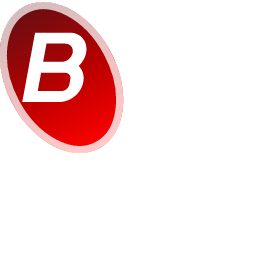
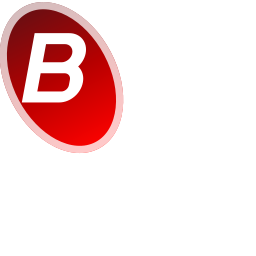
The buttons' letters placed where the map's are, and their settings read again (#56)
The map's letters do not sit alike on every icon: on the message icons'
sheet, X's and Y's are about 1.7 texels lower on their ovals than the
redraws put them. tools/button_assets.py layout now moves each icon's
letter (and Y's shadow, given the id "shadow") to where it best matches
the map's, and buttons.json keeps the move; the menus' large buttons move
by under 0.03 texels, the message icons' by up to 1.7. The PNGs are drawn
again, the sheet with all 256 levels of alpha rather than 32.

hud_hires_sprites_drawable read display.high_res_hud and high_res_text
only once, and hud_hires_sprite_bitmap kept its answer for the bitmap's
address, so turning either setting off or on left the message icons as
they were: both check again when the settings change, as
hud_hires_override_find does. ui_widget.c declares hud_hires_sprite_bitmap
with the port's other functions instead of in the block that calls it.
AUTHORS.md credits saulob for the redraws.

Checked with button_assets.py check against ui.map and side by side with
the map's icons; ninja linux and ninja android build, and the harness and
test_linux_port pass.

diff --git a/tools/button_assets.py b/tools/button_assets.py
@@ -37,7 +37,11 @@ layout: reads each icon's bitmap from the map (its size, format and the CRC
     place) and places its redraw on it: a small icon's scaled and moved as
     the map's small art is from its large art (so that their shapes' area
     and centre are the same), and a message icon's stencil where it covers
-    the sprite's best. Writes port/assets/buttons/buttons.json.
+    the sprite's best. Then each icon's letter (id "letter", with Y's
+    shadow, id "shadow") is moved on its oval to where the map's letter is
+    on that icon: the map's letters do not sit alike on every icon, so one
+    redraw's letter does not fit them all. Writes
+    port/assets/buttons/buttons.json.
 build: renders the redraws as buttons.json places them into
     port/assets/buttons/*.png (committed; the builds embed them:
     tools/embed_assets.py).
@@ -49,7 +53,6 @@ Needs rsvg-convert, Pillow, NumPy and SciPy.
 
 import argparse
 import json
-import re
 import sys
 import tempfile
 import xml.etree.ElementTree as ElementTree
@@ -91,29 +94,43 @@ def document(width: int, height: int, body: str) -> str:
             f'viewBox="0 0 {width} {height}">\n{body}\n</svg>\n')
 
 
-def placed(svg: Path, width: int, height: int, place: list) -> str:
+# the redraws' letter, and the shadow Y's letter casts, which move together
+LETTER_IDS = ("letter", "shadow")
+
+ElementTree.register_namespace("", "http://www.w3.org/2000/svg")
+
+
+def placed(svg: Path, width: int, height: int, place: list, letter: list = (0, 0)) -> str:
     """The redraw as a picture of its bitmap's size, scaled by place[0] and
-    moved by place[1:] (texels)."""
-    body = re.search(r"<svg\b[^>]*>(.*)</svg>", svg.read_text(), re.S).group(1)
+    moved by place[1:] (texels), its letter moved a further letter (texels
+    of the bitmap) on its oval."""
+    root = ElementTree.parse(svg).getroot()
     scale, x, y = place
+    for element in root.iter():
+        if element.get("id") in LETTER_IDS:
+            element.set("transform",
+                        f"translate({letter[0] / scale} {letter[1] / scale}) {element.get('transform', '')}")
+    body = "".join(ElementTree.tostring(child, encoding="unicode") for child in root)
     return document(width, height, f'<g transform="translate({x} {y}) scale({scale})">{body}</g>')
 
 
-def stencil(svg: str, cell: list, place: list, index: int) -> str:
+def stencil(svg: str, cell: list, place: list, index: int, letter: list = (0, 0)) -> str:
     """A redraw as the message icons draw its button, in a sprite's cell
     (texels of its sheet): its oval in white with its letter cut out,
-    scaled by place[0] and moved by place[1:] from the cell's corner, and
-    kept to the cell; index names its clip and mask."""
+    scaled by place[0] and moved by place[1:] from the cell's corner, its
+    letter moved a further letter (texels of the sheet), and kept to the
+    cell; index names its clip and mask."""
     root = ElementTree.parse(ASSETS / "svg" / svg).getroot()
     parents = {child: parent for parent in root.iter() for child in parent}
-    oval, letter = root.find(".//*[@id='oval']"), root.find(".//*[@id='letter']")
+    oval, cut = root.find(".//*[@id='oval']"), root.find(".//*[@id='letter']")
     left, top, right, bottom = cell
     scale, x, y = place
     moved = f"translate({left + x} {top + y}) scale({scale})"
     area = f'x="{left}" y="{top}" width="{right - left}" height="{bottom - top}"'
     return (f'<defs><clipPath id="cell{index}"><rect {area}/></clipPath>\n'
             f'<mask id="letter{index}" maskUnits="userSpaceOnUse" {area}><rect {area} fill="#ffffff"/>\n'
-            f'<path transform="{moved} {letter.get("transform")}" fill="#000000" d="{letter.get("d")}"/></mask></defs>\n'
+            f'<path transform="{moved} translate({letter[0] / scale} {letter[1] / scale}) {cut.get("transform")}" '
+            f'fill="#000000" d="{cut.get("d")}"/></mask></defs>\n'
             f'<g clip-path="url(#cell{index})" mask="url(#letter{index})">'
             f'<ellipse transform="{moved} {parents[oval].get("transform")}" rx="{oval.get("rx")}" '
             f'ry="{oval.get("ry")}" fill="#ffffff"/></g>')
@@ -170,6 +187,53 @@ def stencil_place(svg: str, alpha: np.ndarray) -> list:
     return [round(float(best[0]), 4), round(float(best[1]), 3), round(float(best[2]), 3)]
 
 
+def whiteness(image: np.ndarray) -> np.ndarray:
+    """How white each texel is, over black: the letters' white against the
+    ovals' colours and rims, which do not move with the letter."""
+    alpha = image[..., 3:4].astype(float) / 255
+    return (image[..., :3].astype(float) * alpha).min(axis=2) / 255
+
+
+def best_letter(error) -> list:
+    """The letter's move (texels) with the least error, from none."""
+    from scipy import optimize
+
+    best = optimize.minimize(lambda move: error(list(move)), [0.0, 0.0], method="Powell",
+                             options={"xtol": 1e-3, "ftol": 1e-8}).x
+    return [round(float(best[0]), 3), round(float(best[1]), 3)]
+
+
+def button_letter(entry: dict, bitmap: dict) -> list:
+    """Where a button's letter goes on its oval (a move, in texels): where
+    its white is closest to the map's."""
+    target = whiteness(decode_bitmap(bitmap))
+    width, height = entry["width"], entry["height"]
+
+    def error(move: list) -> float:
+        drawn = render(placed(ASSETS / "svg" / entry["svg"], width, height, entry["place"], move), SCALE)
+        reduced = np.asarray(Image.fromarray(drawn, "RGBA").resize((width, height), Image.BOX))
+        return float(((whiteness(reduced) - target) ** 2).sum())
+
+    return best_letter(error)
+
+
+def sprite_letter(sprite: dict, alpha: np.ndarray) -> list:
+    """Where a message icon's letter goes on its oval (a move, in texels of
+    the sheet): where its cut-out is closest to the map's sprite, whose
+    alpha it is."""
+    left, top, right, bottom = sprite["cell"]
+    width, height = right - left, bottom - top
+    target = alpha.astype(float) / 255
+    cell = [0, 0, width, height]
+
+    def error(move: list) -> float:
+        drawn = render(document(width, height, stencil(sprite["svg"], cell, sprite["place"], 0, move)), SCALE)
+        reduced = drawn[..., 3].astype(float).reshape(height, SCALE, width, SCALE).mean(axis=(1, 3)) / 255
+        return float(((reduced - target) ** 2).sum())
+
+    return best_letter(error)
+
+
 def layout(arguments) -> None:
     xbox_map = XboxMap(Path(arguments.map))
     entries = []
@@ -183,7 +247,7 @@ def layout(arguments) -> None:
             drawn_area, drawn_x, drawn_y = shape(decode_bitmap(icon(xbox_map, drawn_over))[..., 3])
             scale = (area / drawn_area) ** 0.5
             place = [round(scale, 4), round(x - scale * drawn_x, 3), round(y - scale * drawn_y, 3)]
-        entries.append({
+        entry = {
             "name": tag.split("\\")[-1] + "__0",
             "tag": tag,
             "bitmap": 0,
@@ -196,8 +260,11 @@ def layout(arguments) -> None:
             "crc": zlib.crc32(bitmap["pixels"][:level0_size(bitmap)]),
             "svg": svg,
             "place": place,
-        })
-        print(f"{tag}: {width}x{height} {FORMATS[bitmap['format']]}, {svg} at {place[0]}x, moved {place[1]}, {place[2]}")
+        }
+        entry["letter"] = button_letter(entry, bitmap)
+        entries.append(entry)
+        print(f"{tag}: {width}x{height} {FORMATS[bitmap['format']]}, {svg} at {place[0]}x, moved {place[1]}, "
+              f"{place[2]}; its letter moved {entry['letter'][0]}, {entry['letter'][1]}")
     # the message icons' buttons
     if ("bitm", MESSAGE_ICONS) not in xbox_map.tags:
         sys.exit(f"{MESSAGE_ICONS}: not in this map")
@@ -212,8 +279,11 @@ def layout(arguments) -> None:
             sys.exit(f"{MESSAGE_ICONS}: sequence {sequence} is not one sprite of its first bitmap")
         cell = pixel_rectangle(cells[0], width, height)
         place = stencil_place(svg, alpha[cell[1]:cell[3], cell[0]:cell[2]])
-        sprites.append({"sequence": sequence, "cell": cell, "svg": svg, "place": place})
-        print(f"{MESSAGE_ICONS} sequence {sequence}: cell {cell}, {svg} at {place[0]}x, moved {place[1]}, {place[2]}")
+        sprite = {"sequence": sequence, "cell": cell, "svg": svg, "place": place}
+        sprite["letter"] = sprite_letter(sprite, alpha[cell[1]:cell[3], cell[0]:cell[2]])
+        sprites.append(sprite)
+        print(f"{MESSAGE_ICONS} sequence {sequence}: cell {cell}, {svg} at {place[0]}x, moved {place[1]}, "
+              f"{place[2]}; its letter moved {sprite['letter'][0]}, {sprite['letter'][1]}")
     entries.append({
         "name": MESSAGE_ICONS.split("\\")[-1] + "__0",
         "tag": MESSAGE_ICONS,
@@ -237,14 +307,15 @@ def build(arguments) -> None:
             stale.unlink()
     for entry in description["assets"]:
         if "sprites" in entry:
-            body = "\n".join(stencil(sprite["svg"], sprite["cell"], sprite["place"], index)
+            body = "\n".join(stencil(sprite["svg"], sprite["cell"], sprite["place"], index,
+                                     sprite.get("letter", (0, 0)))
                              for index, sprite in enumerate(entry["sprites"]))
             image = render(document(entry["width"], entry["height"], body), entry["scale"])
             # (grey the same as alpha, as the sheet's)
             image[..., :3] = image[..., 3:4]
         else:
-            image = render(placed(ASSETS / "svg" / entry["svg"], entry["width"], entry["height"], entry["place"]),
-                           entry["scale"])
+            image = render(placed(ASSETS / "svg" / entry["svg"], entry["width"], entry["height"], entry["place"],
+                                  entry.get("letter", (0, 0))), entry["scale"])
             # (the colour carried into the transparent texels, so that
             # filtering and the mip levels keep it at the oval's edge)
             image = bleed(image)

diff --git a/port/linux/game/hud_hires_tags.c b/port/linux/game/hud_hires_tags.c
@@ -29,6 +29,7 @@ When the texture cannot be drawn, the sprites are drawn from their bitmap.
 
 /* the platform layer's (port/linux/src) */
 void platform_log(char const *format, ...);
+unsigned long config_changes(void);
 long hud_hires_asset_count(void);
 char const *hud_hires_asset_tag(long asset);
 long hud_hires_asset_bitmap(long asset);
@@ -61,7 +62,8 @@ static long hires_bitmap_count = 0;
 
 /* the bitmaps some of whose sprites have a texture, with their placeholder,
 and whether the texture can be drawn for the pixels at checked_address
-(checked again when the texture cache loads them elsewhere) */
+(checked again when the texture cache loads them elsewhere, or the settings
+change) */
 static struct
 {
 	struct bitmap_data *bitmap;
@@ -69,6 +71,7 @@ static struct
 	struct bitmap_data *placeholder;
 	boolean placeholder_failed;
 	void *checked_address;
+	unsigned long checked_at;
 	boolean drawable;
 } hires_sprite_bitmaps[MAXIMUM_HIRES_SPRITE_BITMAPS];
 static long hires_sprite_bitmap_count = 0;
@@ -172,9 +175,11 @@ struct bitmap_data const *hud_hires_sprite_bitmap(
 		/* (checked on its pixels in the texture cache, once they are loaded) */
 		if (sprite_bitmap->cache_block_index == NONE || !sprite_bitmap->base_address)
 			break;
-		if (hires_sprite_bitmaps[index].checked_address != sprite_bitmap->base_address)
+		if (hires_sprite_bitmaps[index].checked_address != sprite_bitmap->base_address ||
+			hires_sprite_bitmaps[index].checked_at != config_changes())
 		{
 			hires_sprite_bitmaps[index].checked_address = sprite_bitmap->base_address;
+			hires_sprite_bitmaps[index].checked_at = config_changes();
 			hires_sprite_bitmaps[index].drawable = hud_hires_sprites_drawable(
 				hires_sprite_bitmaps[index].asset,
 				(unsigned long)sprite_bitmap->base_address,

diff --git a/port/linux/src/hud_hires.c b/port/linux/src/hud_hires.c
@@ -9,8 +9,8 @@ port/linux/game/hud_hires_tags.c). Each texture is decoded from its PNG when
 first drawn and kept: up to 69 of the HUD's, about 225 MB with their mip
 levels, though a game draws only some (the scopes' only when zoomed), and
 the titles of the menus shown, about 3 MB each (11 MB for the carnage
-report's, a whole panel), and their button icons, about 0.3 MiB each (5.3
-MiB for the message icons' sheet).
+report's, a whole panel), and their button icons, about 0.3 MB each (5.3
+MB for the message icons' sheet).
 They are drawn with linear filtering and their mip levels (d3d8_gl.c,
 configure_sampler), as they are larger than they appear.
 
@@ -136,11 +136,13 @@ level0_size bytes): its setting on, the pixels those it was drawn for, and
 the texture decoded */
 int hud_hires_sprites_drawable(long asset, unsigned long address, unsigned long level0_size)
 {
-	static int hud_enabled = -1, titles_enabled = -1;
+	static int hud_enabled, titles_enabled;
+	static unsigned long read_at = (unsigned long)-1;
 	unsigned long levels;
 
-	if (hud_enabled < 0)
+	if (read_at != config_changes())
 	{
+		read_at = config_changes();
 		hud_enabled = config_boolean("display.high_res_hud");
 		titles_enabled = config_boolean("display.high_res_text");
 	}

diff --git a/source/interface/ui_widget.c b/source/interface/ui_widget.c
@@ -1383,6 +1383,11 @@ boolean pc_menu_frame_placement(
 	short *y,
 	short *width,
 	short *height);
+/* port: the placeholder bitmap the menus draw a sprite of a high-res
+texture from, or the sheet if it has none (port/linux/game/hud_hires_tags.c) */
+struct bitmap_data const *hud_hires_sprite_bitmap(
+	struct bitmap_data const *sheet,
+	short sequence_index);
 static void widget_instance_initialize(
 	struct widget_instance *widget,
 	struct widget_instance *parent,
@@ -4056,9 +4061,7 @@ static void render_state_bitmap(
 	if (bitmap && _texture_cache_bitmap_get_hardware_format(
 		(struct bitmap_data *)bitmap, FALSE, TRUE))
 	{
-		/* port: the sprite from a high-res texture, if it has one (port/linux/game/hud_hires_tags.c) */
-		extern struct bitmap_data const *hud_hires_sprite_bitmap(struct bitmap_data const *sheet, short sequence_index);
-
+		/* port: the sprite from a high-res texture, if it has one */
 		bitmap = hud_hires_sprite_bitmap(bitmap, icon->sequence_index);
 		scale = hud_globals_get_scale(local_player_count() > 1);
 		point.x = (short)(icon->offset.x * scale + cursor_bounds->x0 + 1.0f);

diff --git a/AUTHORS.md b/AUTHORS.md
@@ -4,6 +4,8 @@
 
 - **The game's icon** (the Android app's launcher icon, `halo.exe`'s icon
   and the desktop windows' icon): by ORION (`port/assets/icon`).
+- **The controller's A, B, X and Y buttons** (the menus' button icons and
+  the HUD messages'): redraws by saulob (`port/assets/buttons`).
 
 ## Third-party art
 
